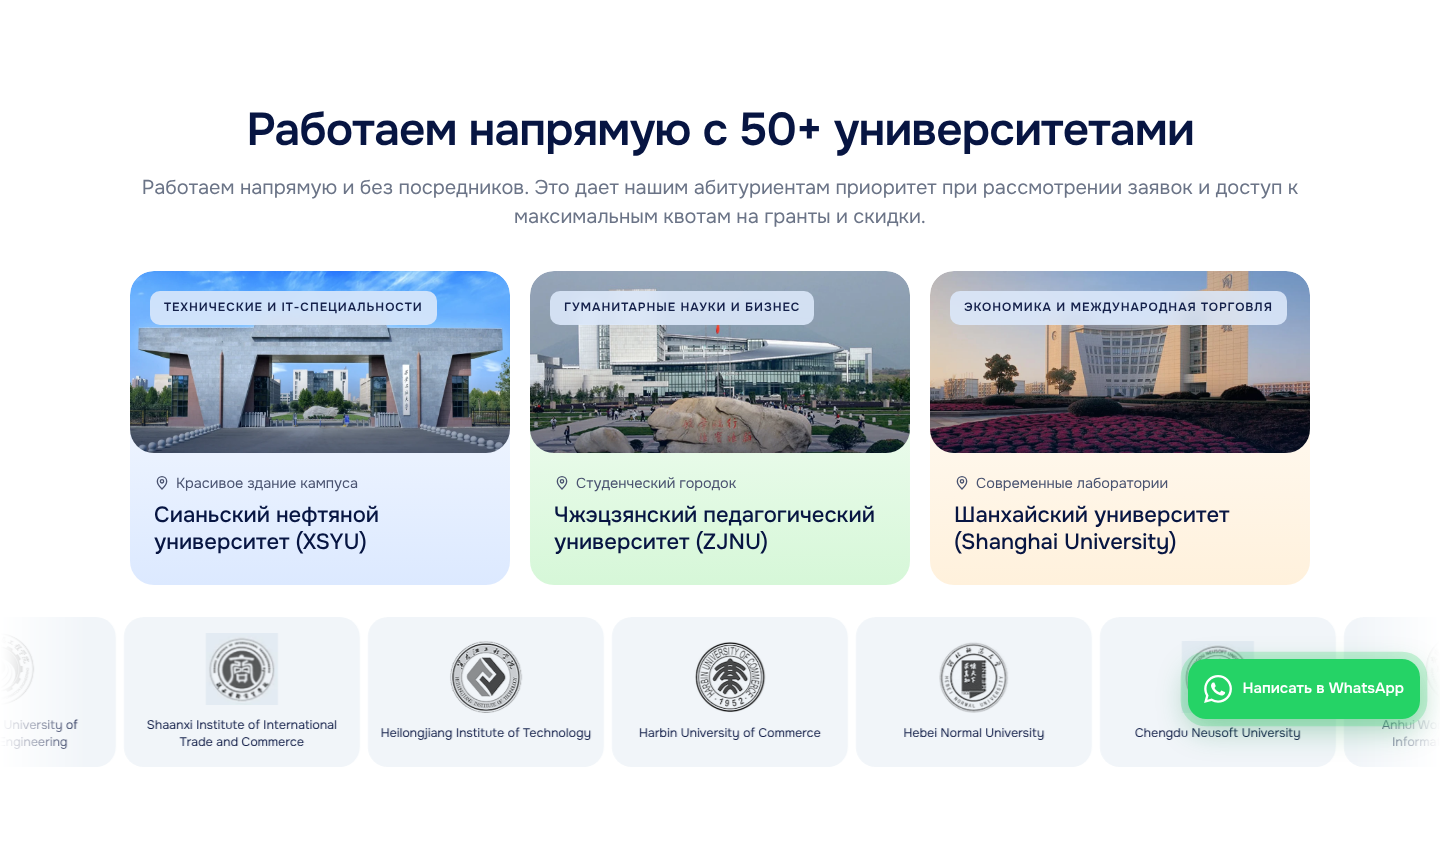
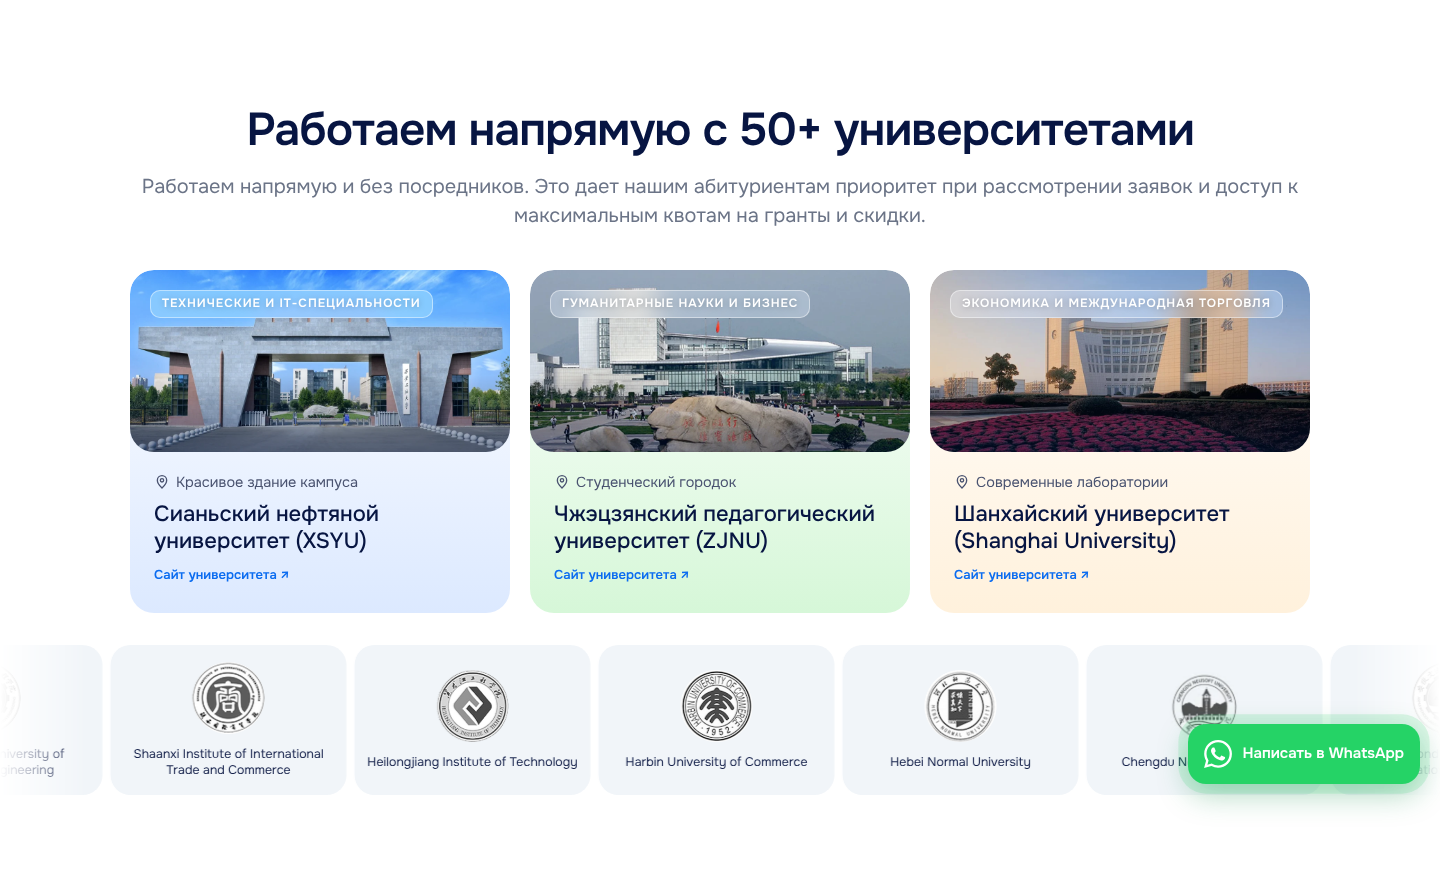
Unified tags, glass uni tags, uni links, urgent grant deadline with countdown, step hover glow, about tweaks
Claude-Session: https://claude.ai/code/session_01DveQThDXrjAqWsCdBVYsEN

diff --git a/index.html b/index.html
@@ -2290,6 +2290,42 @@ html,body{overflow-x:clip!important}
 .step-head h3{max-width:56%!important}
 @media (max-width:680px){.step-head img{width:136px!important;top:-18px!important}.step:nth-child(5) .step-head img.st5{width:118px!important;top:-22px!important}}
 .step:nth-child(4) .step-head h3{max-width:100%!important}.step:nth-child(5) .step-head h3{max-width:66%!important}
+
+/* ===== Единые теги-плашки (по образцу «1 минута · 3 вопроса») ===== */
+.tag,.ab-eyebrow,.art .cat,.uni-tag,.cta-badge,.faq .eyebrow{display:inline-flex!important;align-items:center;gap:6px;padding:6px 12px!important;border-radius:10px!important;font-size:12px!important;font-weight:600!important;letter-spacing:.08em!important;text-transform:uppercase!important;line-height:1.3!important;border:0!important}
+.art .cat{margin-left:16px}
+/* теги поверх фото вузов: белое стекло */
+.uni-tag{background:rgba(255,255,255,.28)!important;color:#fff!important;backdrop-filter:blur(14px) saturate(1.3);-webkit-backdrop-filter:blur(14px) saturate(1.3);box-shadow:inset 0 0 0 1px rgba(255,255,255,.45);text-shadow:0 1px 6px rgba(0,0,0,.25)}
+/* карточки вузов — ссылки */
+a.uni-card{color:inherit;text-decoration:none;transition:box-shadow .25s}
+a.uni-card:hover{box-shadow:0 14px 34px rgba(19,52,120,.10)}
+.uni-link{display:inline-block;margin-top:10px;font-size:13px;font-weight:600;color:#0b6cf0}
+/* «+7 лет» в «О компании» */
+.hl{background:#fff3c4!important;animation:none!important;padding:0 10px!important;border-radius:8px!important}
+.hl{color:#e07b00!important;font-weight:700!important}
+/* карточка квиза: шапочка ниже */
+@media (min-width:981px){.cta-ill{top:64px!important}}
+/* шаги: при наведении подсвечивается весь шаг, без сдвига */
+.step-top,.step ol{transition:background-color .25s,filter .25s,box-shadow .25s!important}
+.step:hover .step-top{transform:none!important;background:#2f72ff!important}
+.step:hover ol{filter:brightness(1.22)}
+.step:hover .step-top,.step:hover ol{box-shadow:0 0 0 2px rgba(120,170,255,.35)}
+/* мобильная лента вузов: воздух сверху и снизу */
+@media (max-width:680px){.uni-marquee{margin-top:20px;padding:8px 0}.uni-logo{height:auto!important;min-height:150px;padding:18px 14px!important;gap:10px}}
+/* галерея «О компании» меньше */
+@media (min-width:981px){.ab-car{max-width:400px!important}.ab-track{min-height:500px!important;max-height:540px}}
+/* ===== Срочность в «Оставьте заявку» ===== */
+.urgent{display:flex;align-items:center;gap:16px;margin-top:24px;padding:14px 18px 14px 14px;border-radius:20px;background:#fff7e0;color:#3a2405;max-width:560px;box-shadow:0 0 0 2px rgba(255,214,90,.6)}
+.urg-days{flex:none;width:78px;height:78px;border-radius:16px;background:linear-gradient(160deg,#ff9a1a,#ff6a00);color:#fff;display:flex;flex-direction:column;align-items:center;justify-content:center;line-height:1}
+.urg-days b{font-size:32px;font-weight:700;letter-spacing:-.02em}
+.urg-days span{font-size:12px;font-weight:600;margin-top:4px;opacity:.95}
+.urg-txt small{display:flex;align-items:center;gap:8px;font-size:12px;font-weight:600;letter-spacing:.08em;text-transform:uppercase;color:#d55a00}
+.urg-txt b{display:block;font-size:18px;font-weight:600;line-height:1.25;margin:4px 0}
+.urg-txt > span{display:block;font-size:13.5px;color:#7a5520;line-height:1.35}
+.urgent{animation:urgPulse 2.6s ease-in-out infinite}
+@keyframes urgPulse{0%,100%{box-shadow:0 0 0 2px rgba(255,214,90,.6)}50%{box-shadow:0 0 0 6px rgba(255,170,40,.35)}}
+@media (max-width:680px){.urgent{padding:12px;gap:12px}.urg-days{width:64px;height:64px}.urg-days b{font-size:26px}.urg-txt b{font-size:15.5px}}
+@media (prefers-reduced-motion:reduce){.urgent{animation:none}}
 </style>
 </head>
 <body>
@@ -2638,7 +2674,7 @@ html,body{overflow-x:clip!important}
       <h2 class="h2 reveal">Работаем напрямую с 50+ университетами</h2>
       <p class="sub reveal">Работаем напрямую и без посредников. Это дает нашим абитуриентам приоритет при рассмотрении заявок и доступ к максимальным квотам на гранты и скидки.</p>
     </div>
-    <div class="uni-grid"><article class="uni-card b reveal"><div class="uni-img"><img loading="lazy" decoding="async" src="assets/uni/campus1.webp" alt="Сианьский нефтяной университет (XSYU)"><span class="uni-tag">Технические и IT-специальности</span></div><div class="uni-body"><small><svg width="16" height="16" viewBox="0 0 24 24" fill="none" stroke="currentColor" stroke-width="2"><path d="M12 21s-7-6.2-7-11.5A7 7 0 0 1 19 9.5C19 14.8 12 21 12 21z"/><circle cx="12" cy="9.5" r="2.5"/></svg>Красивое здание кампуса</small><h3>Сианьский нефтяной университет (XSYU)</h3></div></article><article class="uni-card g reveal"><div class="uni-img"><img loading="lazy" decoding="async" src="assets/uni/campus2.webp" alt="Чжэцзянский педагогический университет (ZJNU)"><span class="uni-tag">Гуманитарные науки и бизнес</span></div><div class="uni-body"><small><svg width="16" height="16" viewBox="0 0 24 24" fill="none" stroke="currentColor" stroke-width="2"><path d="M12 21s-7-6.2-7-11.5A7 7 0 0 1 19 9.5C19 14.8 12 21 12 21z"/><circle cx="12" cy="9.5" r="2.5"/></svg>Студенческий городок</small><h3>Чжэцзянский педагогический университет (ZJNU)</h3></div></article><article class="uni-card y reveal"><div class="uni-img"><img loading="lazy" decoding="async" src="assets/uni/campus3.webp" alt="Шанхайский университет (Shanghai University)"><span class="uni-tag">Экономика и международная торговля</span></div><div class="uni-body"><small><svg width="16" height="16" viewBox="0 0 24 24" fill="none" stroke="currentColor" stroke-width="2"><path d="M12 21s-7-6.2-7-11.5A7 7 0 0 1 19 9.5C19 14.8 12 21 12 21z"/><circle cx="12" cy="9.5" r="2.5"/></svg>Современные лаборатории</small><h3>Шанхайский университет (Shanghai University)</h3></div></article></div>
+    <div class="uni-grid"><a href="https://www.xsyu.edu.cn/" target="_blank" rel="noopener" class="uni-card b reveal"><div class="uni-img"><img loading="lazy" decoding="async" src="assets/uni/campus1.webp" alt="Сианьский нефтяной университет (XSYU)"><span class="uni-tag">Технические и IT-специальности</span></div><div class="uni-body"><small><svg width="16" height="16" viewBox="0 0 24 24" fill="none" stroke="currentColor" stroke-width="2"><path d="M12 21s-7-6.2-7-11.5A7 7 0 0 1 19 9.5C19 14.8 12 21 12 21z"/><circle cx="12" cy="9.5" r="2.5"/></svg>Красивое здание кампуса</small><h3>Сианьский нефтяной университет (XSYU)</h3><span class="uni-link">Сайт университета ↗</span></div></a><a href="https://www.zjnu.edu.cn/" target="_blank" rel="noopener" class="uni-card g reveal"><div class="uni-img"><img loading="lazy" decoding="async" src="assets/uni/campus2.webp" alt="Чжэцзянский педагогический университет (ZJNU)"><span class="uni-tag">Гуманитарные науки и бизнес</span></div><div class="uni-body"><small><svg width="16" height="16" viewBox="0 0 24 24" fill="none" stroke="currentColor" stroke-width="2"><path d="M12 21s-7-6.2-7-11.5A7 7 0 0 1 19 9.5C19 14.8 12 21 12 21z"/><circle cx="12" cy="9.5" r="2.5"/></svg>Студенческий городок</small><h3>Чжэцзянский педагогический университет (ZJNU)</h3><span class="uni-link">Сайт университета ↗</span></div></a><a href="https://www.shu.edu.cn/" target="_blank" rel="noopener" class="uni-card y reveal"><div class="uni-img"><img loading="lazy" decoding="async" src="assets/uni/campus3.webp" alt="Шанхайский университет (Shanghai University)"><span class="uni-tag">Экономика и международная торговля</span></div><div class="uni-body"><small><svg width="16" height="16" viewBox="0 0 24 24" fill="none" stroke="currentColor" stroke-width="2"><path d="M12 21s-7-6.2-7-11.5A7 7 0 0 1 19 9.5C19 14.8 12 21 12 21z"/><circle cx="12" cy="9.5" r="2.5"/></svg>Современные лаборатории</small><h3>Шанхайский университет (Shanghai University)</h3><span class="uni-link">Сайт университета ↗</span></div></a></div>
   </div>
   <div class="uni-marquee" aria-label="Вузы-партнёры"><div class="uni-track"><div class="uni-logo"><img loading="lazy" decoding="async" src="assets/uni/logo1.png" alt=""><span>Anhui Wonder University of Information Engineering</span></div><div class="uni-logo"><img loading="lazy" decoding="async" src="assets/uni/logo2.png" alt=""><span>Shaanxi Institute of International Trade and Commerce</span></div><div class="uni-logo"><img loading="lazy" decoding="async" src="assets/uni/logo3.png" alt=""><span>Heilongjiang Institute of Technology</span></div><div class="uni-logo"><img loading="lazy" decoding="async" src="assets/uni/logo4.png" alt=""><span>Harbin University of Commerce</span></div><div class="uni-logo"><img loading="lazy" decoding="async" src="assets/uni/logo5.png" alt=""><span>Hebei Normal University</span></div><div class="uni-logo"><img loading="lazy" decoding="async" src="assets/uni/logo6.png" alt=""><span>Chengdu Neusoft University</span></div><div class="uni-logo"><img loading="lazy" decoding="async" src="assets/uni/logo1.png" alt="" aria-hidden="true"><span>Anhui Wonder University of Information Engineering</span></div><div class="uni-logo"><img loading="lazy" decoding="async" src="assets/uni/logo2.png" alt="" aria-hidden="true"><span>Shaanxi Institute of International Trade and Commerce</span></div><div class="uni-logo"><img loading="lazy" decoding="async" src="assets/uni/logo3.png" alt="" aria-hidden="true"><span>Heilongjiang Institute of Technology</span></div><div class="uni-logo"><img loading="lazy" decoding="async" src="assets/uni/logo4.png" alt="" aria-hidden="true"><span>Harbin University of Commerce</span></div><div class="uni-logo"><img loading="lazy" decoding="async" src="assets/uni/logo5.png" alt="" aria-hidden="true"><span>Hebei Normal University</span></div><div class="uni-logo"><img loading="lazy" decoding="async" src="assets/uni/logo6.png" alt="" aria-hidden="true"><span>Chengdu Neusoft University</span></div></div></div>
 </div></section>
@@ -2797,7 +2833,10 @@ html,body{overflow-x:clip!important}
     <div>
       <h2 class="reveal">Оставьте заявку - мы свяжемся с вами и ответим на <em>все вопросы</em></h2>
       <p class="reveal">Заполните форму и наш специалист подберет для Вас оптимальную программу и поможет с поступлением в Китай</p>
-      <div class="deadline on-blue reveal"><span class="dl-dot"></span>Приём на грант 2026/27 закрывается <b>31 марта</b></div>
+      <div class="urgent reveal">
+        <div class="urg-days"><b id="urgDays">—</b><span>дней</span></div>
+        <div class="urg-txt"><small><span class="dl-dot"></span>Успейте подать заявку</small><b>Приём на грант 2026/27 закрывается 31 марта</b><span>Количество грантовых мест ограничено — подаём документы в порядке очереди</span></div>
+      </div>
     </div>
     <form class="form reveal lead-form">
       <div class="fbody">
@@ -3149,6 +3188,10 @@ function posArrows(){const w=$('.stories-wrap'),c=$('#story');if(!w||!c)return;c
   const x=gapL>aw+16?(fr.left-q.left)+mid-aw/2:(r.left-q.left)-aw/2;
   w.style.setProperty('--ax',x+'px');w.style.setProperty('--stop',(r.top-q.top+r.height/2)+'px')}
 addEventListener('resize',posArrows);addEventListener('load',posArrows);setTimeout(posArrows,600);
+
+// дней до закрытия приёма на грант
+(()=>{const el=$('#urgDays');if(!el)return;const now=new Date();let y=now.getFullYear();let end=new Date(y,2,31,23,59);if(now>end)end=new Date(y+1,2,31,23,59);
+  el.textContent=Math.max(0,Math.ceil((end-now)/864e5));})();
 // модалка
 const modal=$('#modal');
 $$('[data-open]').forEach(b=>b.addEventListener('click',e=>{e.preventDefault();
